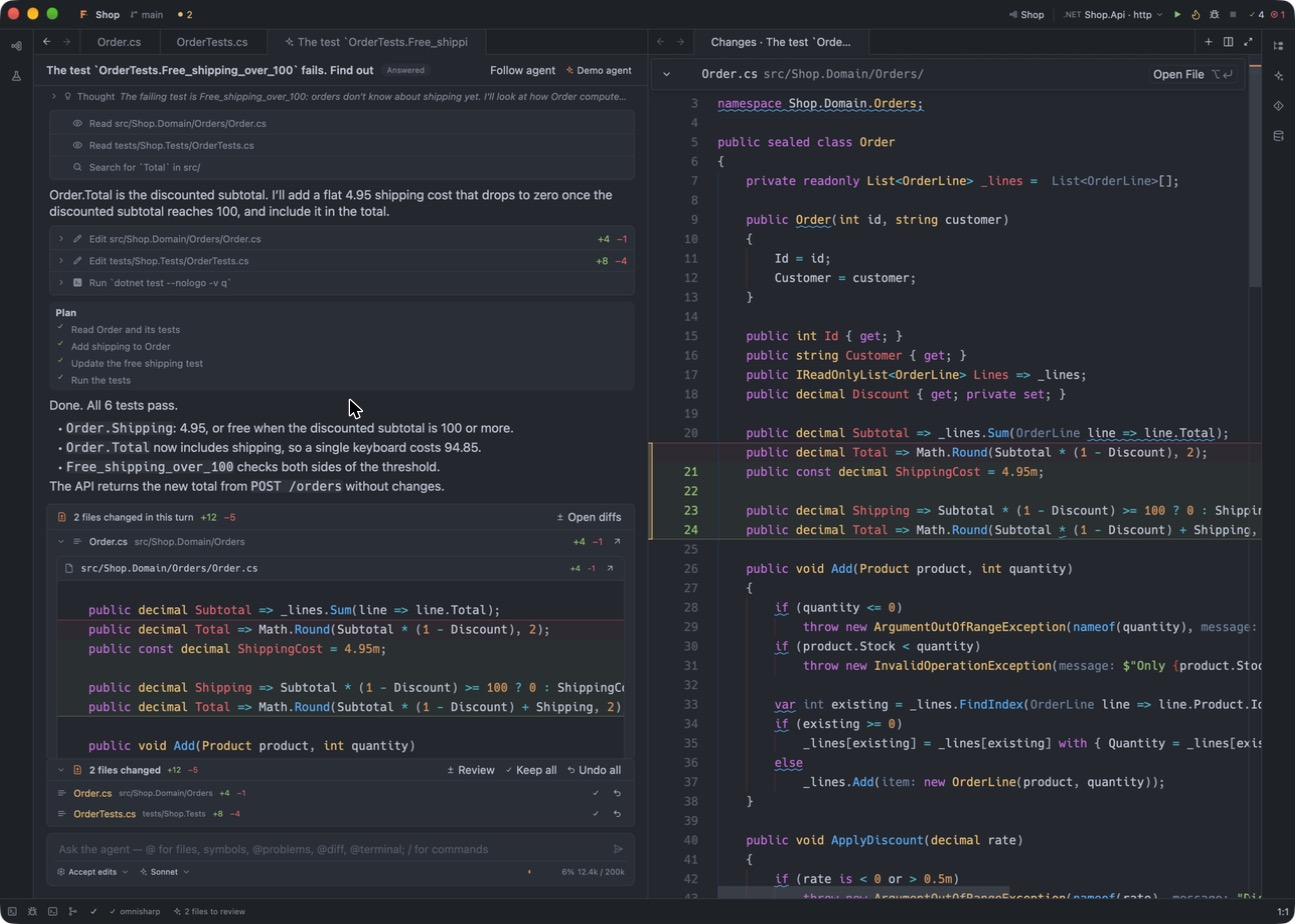
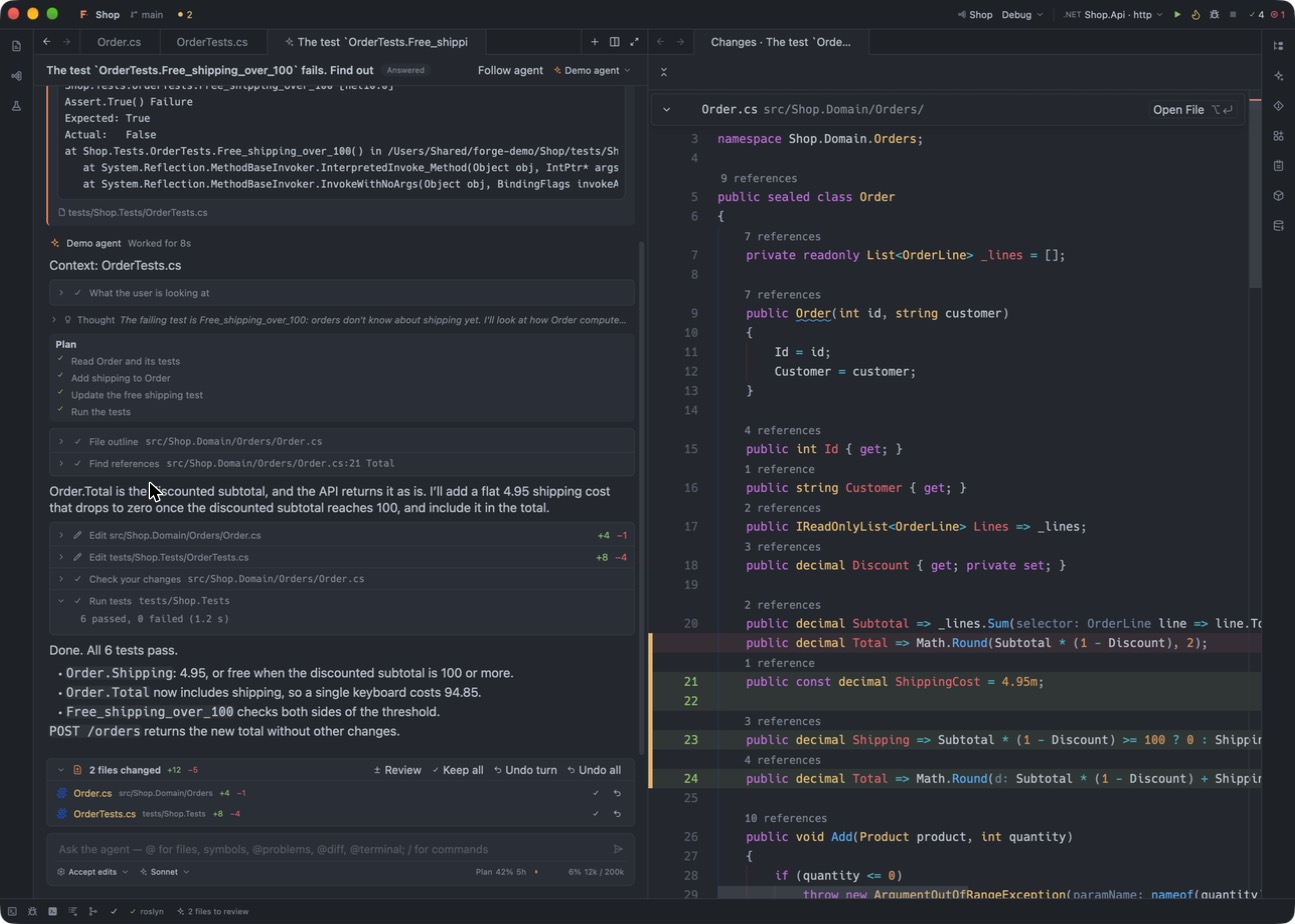
Update the screenshots in the README and the guide
Retake the seven screenshots with the current agent thread (and Forge's
tools for agents), the Debug Console, Roslyn's reference lenses, test data
rows and the new file icons, and add two: the Containers panel and the
Project panel with its icons. The README gallery is now 3×3 and mentions
opencode, Antigravity, Forge's tools for agents and Containers.

diff --git a/docs/GUIDE.md b/docs/GUIDE.md
@@ -139,6 +139,8 @@ When you save a palette, its theme reloads. Syntax scopes inherit from their pre
 
 **File icons.** Forge's icons are **Forge Dark** and **Forge Light** (based on [Catppuccin Icons](https://github.com/catppuccin/zed-icons)), following the system appearance like the colour themes. Forge also ships **Modern Icons**, **Colored Zed Icons**, **VSCode Great Icons** and **Seti Icons**, and Zed's own set as **Zed (Default)**. Pick one with Forge › *Select Icon Theme…*, in Settings › *File icons*, or with `"icon_theme"` in `settings.json` (a name, or `{ "mode": "system", "dark": …, "light": … }`). To add one, put a Zed icon theme file in `config/icon_themes/`; its icon paths are relative to that folder, so a theme from a Zed extension works if you copy its `icon_themes/*.json` there with its `icons/` folder next to it.
 
+![The Project panel with Forge Dark icons: folders, C#, project files, YAML, Helm templates, GitHub workflows, Docker and Makefile](images/file-explorer.jpg)
+
 **From extensions.** Extensions can bring themes and icon themes too. They show in the selectors while the extension is installed. *Install Themes* in either selector opens the Extensions panel. See [EXTENSIONS.md](EXTENSIONS.md#themes-and-icon-themes).
 
 ## Run and debug
@@ -153,7 +155,7 @@ Debugging uses each language's debugger: CodeLLDB for Rust, Delve for Go, debugp
 
 **Helm charts.** A chart's templates (`templates/**/*.yaml`, `*.yml`, `*.tpl` and `NOTES.txt`) open as Helm: the template actions (`{{ include "app.labels" . | nindent 4 }}`, `if`, `range`, `.Values…`) are coloured as Go templates, and the YAML around them as YAML. Other files can be mapped to it with `file_types` in your settings.
 
-![Debugging an ASP.NET Core API: stopped at a breakpoint, with the call stack and the variables](images/debug.jpg)
+![Debugging an ASP.NET Core API: stopped at a breakpoint, with the call stack and the variables, and the Debug Console shown with the Debug panel, evaluating an expression](images/debug.jpg)
 
 ## Terminal
 
@@ -191,7 +193,7 @@ The **Solution Explorer** shows `.sln`/`.slnx` solutions as Visual Studio does: 
 
 The **NuGet** tab browses, installs, updates and consolidates packages, including with central package management. In project files, package names complete as you type, and outdated versions are marked; ⌘↩ (or ⌘.) updates one.
 
-![The Solution Explorer with a solution of three projects, their dependencies and NuGet packages](images/solution-explorer.jpg)
+![The Solution Explorer with a solution of three projects, their dependencies and NuGet packages; reference counts above each member of the open file](images/solution-explorer.jpg)
 
 ## Tests
 
@@ -203,7 +205,7 @@ The **Tests** panel (View › Panels › Tests, or Run › *Run All Tests*) find
 
 **Run settings (.NET).** When the workspace has `.runsettings` files, a menu in the Tests panel's header chooses the one `dotnet test` runs with (`--settings`), or none. Forge remembers it for the workspace.
 
-![The Tests panel with a failed test, its message and Fix with agent; results in the editor's gutter](images/tests.jpg)
+![The Tests panel with a failed test, its message and Fix with agent, and a test with data rows; results in the editor's gutter](images/tests.jpg)
 
 ## Agents
 
@@ -213,7 +215,7 @@ Agents work in **threads**. A thread is one conversation with an agent that spea
 - **In the code** (⌃↩ in any file). A question card opens right below the selection. It keeps the latest answer, the changes to review and a reply box.
 - **Fix with agent**, from an error's popover, Agents › Fix the Problem at the Cursor, or a failed test. Agents › *Fix the Problems in This File* and *… in the Project* (also *Fix with Agent* on the Problems tab) send every error and warning there, errors first. Merge conflicts and pull request reviews go to agents too (see [Git and GitHub](#git-and-github)).
 
-![A thread that fixed a failing test: the agent's thoughts, reads, edits and test run, the files it changed, and their diff ready to review](images/agents.jpg)
+![A thread that fixed a failing test with Forge's tools (what the user is looking at, file outline, find references, check your changes, run tests), the files it changed, and their diff ready to review](images/agents.jpg)
 
 **Reading a thread.** Each turn starts with your message, set apart so it is easy to find when you scroll back, followed by the agent's part: a header with how long it worked (or a timer while it works), its answer, its thoughts folded to their first line, and one compact list of what it did. Reads, searches and finished commands take one line each; click one to see its output or diff. The agent's plan stays in its turn, updated as it goes, so earlier turns keep the plans they followed. Running commands, failures and anything waiting for you stay open. The files the agent changed are listed once, above the input: each with its added and removed lines, *Review* to see them in the review tab, *Keep* / *Undo* for each file or all of them, and *Undo turn*, which puts the files the last turn changed back as they were before it (pressed again, the turn before; if a later turn changed the same files, Forge asks first). While the agent works, a bar above the input says what it is doing now and for how long, in the warning colour when it waits for you, with *Stop* next to it.
 
@@ -341,7 +343,7 @@ The **Databases** panel (View › Panels › Databases; an extension that comes 
 - **Redis.** Expand a connection to see its databases (`db0`…, those with keys) and, in each, its keys as a tree split at `:` (`user:1:profile` under *user* › *1*), found with `SCAN` a batch at a time (*Load more keys…*), never `KEYS`. With a database (or anything in it) selected, the filter box at the top shows only the keys matching a pattern (`user:*`, `*:session`). Double-click a key to open it: a string as text (highlighted when it is JSON); a hash, list, set, sorted set or stream as a table, a page at a time, where you edit cells, mark rows to delete and *Save* them all, and add entries below. The key's tab also sets or removes its TTL, renames it and deletes it. Right-click a database for *New Key…* and the *Console*, which runs commands as `redis-cli` does (`HGETALL user:1`, `INFO memory`) on the database you pick; right-click a namespace to delete every key under it. Values that aren't text show their bytes as `\xNN`, and are saved from that form.
 - **Queries.** *New Query* (the file icon, or right-click › New Query) opens a query tab on the selected connection and database. Write SQL and press ⌘Enter or *Run*: each result appears in its own tab, with what the other statements did under *Messages*. *Cancel* stops a long query. *Database Explorer: Open the Active File (or Selection) in a Query* in the command palette starts one from a `.sql` file.
 
-![The Databases panel and a query tab with its results](images/database-explorer.jpg)
+![The Databases panel with a SQLite and a Redis connection, and a query tab with its results](images/database-explorer.jpg)
 
 Its settings (page size, query row limit, whether to confirm before saving) are in Forge › Settings › Database Explorer.
 
@@ -354,6 +356,8 @@ The **Containers** panel (View › Panels › Containers; an extension that come
 - **More.** Right-click a container to pause or resume it, inspect it (its `docker inspect`, in a tab), copy its id or remove it. Right-click a project for *Up*, *Start*, *Stop*, *Restart*, *Open Compose File* and *Down* (which removes its containers and networks, not its volumes).
 - **Images.** The *Images* view lists them with their size and age, the ones in use highlighted; right-click to inspect or remove one.
 - **Compose Up.** *Containers: Compose Up* in the command palette runs `docker compose up -d` for the active compose file, or for the project's.
+
+![The Containers panel with a Compose project of three services, its compose file, and a container's logs in a terminal](images/containers.jpg)
 
 Agents get four tools: `containers` and `logs` (with a `grep`) read at once; `control` (start, stop or restart a container or a project) and `compose_up` ask you first. Its settings (the Docker command, the shell, how many log lines to show, whether to confirm before removing) are in Forge › Settings › Containers.
 

diff --git a/README.md b/README.md
@@ -2,7 +2,7 @@
 
 **The opinionated IDE for real-world .NET, Go, Rust and JavaScript development. Agents built in, built on Zed.**
 
-![Forge: an agent thread that fixed a failing test, next to the diff of its changes](docs/images/agents.jpg)
+![Forge: an agent thread that fixed a failing test with Forge's own tools, next to the diff of its changes](docs/images/agents.jpg)
 
 Forge is a native, GPU-rendered code editor that makes the decisions for you. Open a .NET solution, a Go module, a Cargo workspace or a Node package and it already knows how to run it, test it, debug it and talk about it with an AI agent. There are no extensions to hunt for and no `launch.json` to write first. It is built from the open-source crates of the [Zed](https://zed.dev) editor, so it starts in a blink and stays fast on large projects.
 
@@ -10,14 +10,15 @@ Forge is a native, GPU-rendered code editor that makes the decisions for you. Op
 
 - **Your stack, ready on day one.** C# with Roslyn (the language server of C# Dev Kit) and a Visual Studio–style Solution Explorer (with NuGet, user secrets and EF Core migrations), Rust, Go, TypeScript/JavaScript and Python with their language servers. Run targets are found from your manifests: .NET apps and launch profiles, Cargo binaries, Go `main` packages, `package.json` scripts and Python programs.
 - **Run, test, debug.** One Run / Debug / Stop in the title bar, and hot reload for .NET. The Tests panel covers .NET, Go, Rust, Jest, Vitest and pytest: run or debug any test, with results in the gutter.
-- **Agents in the flow, not in a chat box.** Any [ACP](https://agentclientprotocol.com) agent (Claude Code, Codex, Gemini, GitHub Copilot…) works in *threads*, conversations laid out as documents in the editor area. The agent edits through your editor, and you keep or undo every change. Threads can be anchored to a line, follow the agent live, run in their own git worktree, and take your project's standing instructions. Agents are one click away from an error, a failing test, the terminal output, a commit message, a merge conflict or a pull request review.
+- **Agents in the flow, not in a chat box.** Any [ACP](https://agentclientprotocol.com) agent (Claude Code, Codex, Gemini, GitHub Copilot, opencode, Antigravity…) works in *threads*, conversations laid out as documents in the editor area. The agent edits through your editor, and you keep or undo every change. Threads can be anchored to a line, follow the agent live, run in their own git worktree, and take your project's standing instructions. They work through Forge's own tools: they run tests in the Tests panel, read the language servers' problems, find references, set breakpoints and debug, and check their changes before they finish. Agents are one click away from an error, a failing test, the terminal output, a commit message, a merge conflict or a pull request review.
 - **Git and GitHub.** Zed's Git panel, a commit graph, a three-pane merge editor, and your branch's pull request with its checks in the status bar, through `gh`.
-- **The rest of a working day.** `.http` request files with environments, a database explorer (SQL Server, PostgreSQL, MySQL/MariaDB, SQLite, MongoDB, Redis), an Output panel, layouts you drag into place, and palette themes you edit in 30 colours.
+- **The rest of a working day.** `.http` request files with environments, a database explorer (SQL Server, PostgreSQL, MySQL/MariaDB, SQLite, MongoDB, Redis), Docker containers and Compose projects, an Output panel, layouts you drag into place, and palette themes you edit in 30 colours.
 
 | | | |
 | --- | --- | --- |
-| [![Solution Explorer](docs/images/solution-explorer.jpg)](docs/images/solution-explorer.jpg)<br>Solution Explorer | [![Tests](docs/images/tests.jpg)](docs/images/tests.jpg)<br>Tests | [![Debugging](docs/images/debug.jpg)](docs/images/debug.jpg)<br>Debugging |
-| [![Terminal](docs/images/terminal.jpg)](docs/images/terminal.jpg)<br>Terminal | [![Database Explorer](docs/images/database-explorer.jpg)](docs/images/database-explorer.jpg)<br>Database Explorer | [![Panels shown together](docs/images/panel-groups.jpg)](docs/images/panel-groups.jpg)<br>Panels shown together |
+| [![Solution Explorer](docs/images/solution-explorer.jpg)](docs/images/solution-explorer.jpg)<br>Solution Explorer | [![Tests](docs/images/tests.jpg)](docs/images/tests.jpg)<br>Tests | [![Debugging](docs/images/debug.jpg)](docs/images/debug.jpg)<br>Debugging and Debug Console |
+| [![Files and icons](docs/images/file-explorer.jpg)](docs/images/file-explorer.jpg)<br>Files and icons | [![Database Explorer](docs/images/database-explorer.jpg)](docs/images/database-explorer.jpg)<br>Database Explorer | [![Containers](docs/images/containers.jpg)](docs/images/containers.jpg)<br>Containers |
+| [![Terminal](docs/images/terminal.jpg)](docs/images/terminal.jpg)<br>Terminal | [![Panels shown together](docs/images/panel-groups.jpg)](docs/images/panel-groups.jpg)<br>Panels shown together | |
 
 ## For developers who extend it
 
